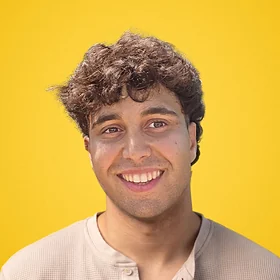
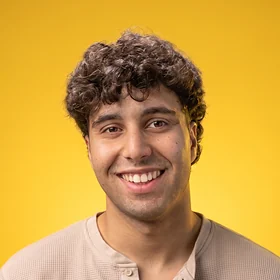
Sito personale: foto di Maicol con la luce da studio rifatta su tutta la foto
Claude-Session: https://claude.ai/code/session_01ApKum1XFknv7gQFesupG21

diff --git a/LICENSES.md b/LICENSES.md
@@ -39,4 +39,4 @@ La ricerca del negozio legge i dati di OpenStreetMap, © OpenStreetMap contribut
 
 Foto libere da diritti (CC0 e pubblico dominio) trovate con Openverse, usate nella pagina degli esempi e nel sito personale (cartelle `assets/img` e `studio/img`). Autori: Jorge Zapata, maryseas4, Ericka Barboza, ChrisEdwardsCE, Leeroy, Snufkin, Jonas Svidras, Matt Moloney, Roman Kraft, roland, Explorers' Edge e la raccolta di pubblico dominio di rawpixel. Lo stesso elenco è in fondo alla pagina degli esempi, sotto "Crediti delle foto". Le immagini prima e dopo in `studio/img` sono catture della pagina degli esempi.
 
-La foto di Maicol (`studio/img/maicol-*.webp`) è sua e non è libera: non si può riusare senza il suo permesso. Viso e capelli vengono dalla sua foto; collo, maglia e sfondo sono stati ricostruiti con l'AI (Higgsfield, Nano Banana 2.1).
+La foto di Maicol (`studio/img/maicol-*.webp`) è sua e non è libera: non si può riusare senza il suo permesso. Parte da una sua foto vera: collo, maglia e sfondo sono stati ricostruiti con l'AI, poi la luce da studio è stata rifatta con l'AI su tutta la foto, viso compreso, usando la sua foto come riferimento (Higgsfield, modelli Nano Banana).
